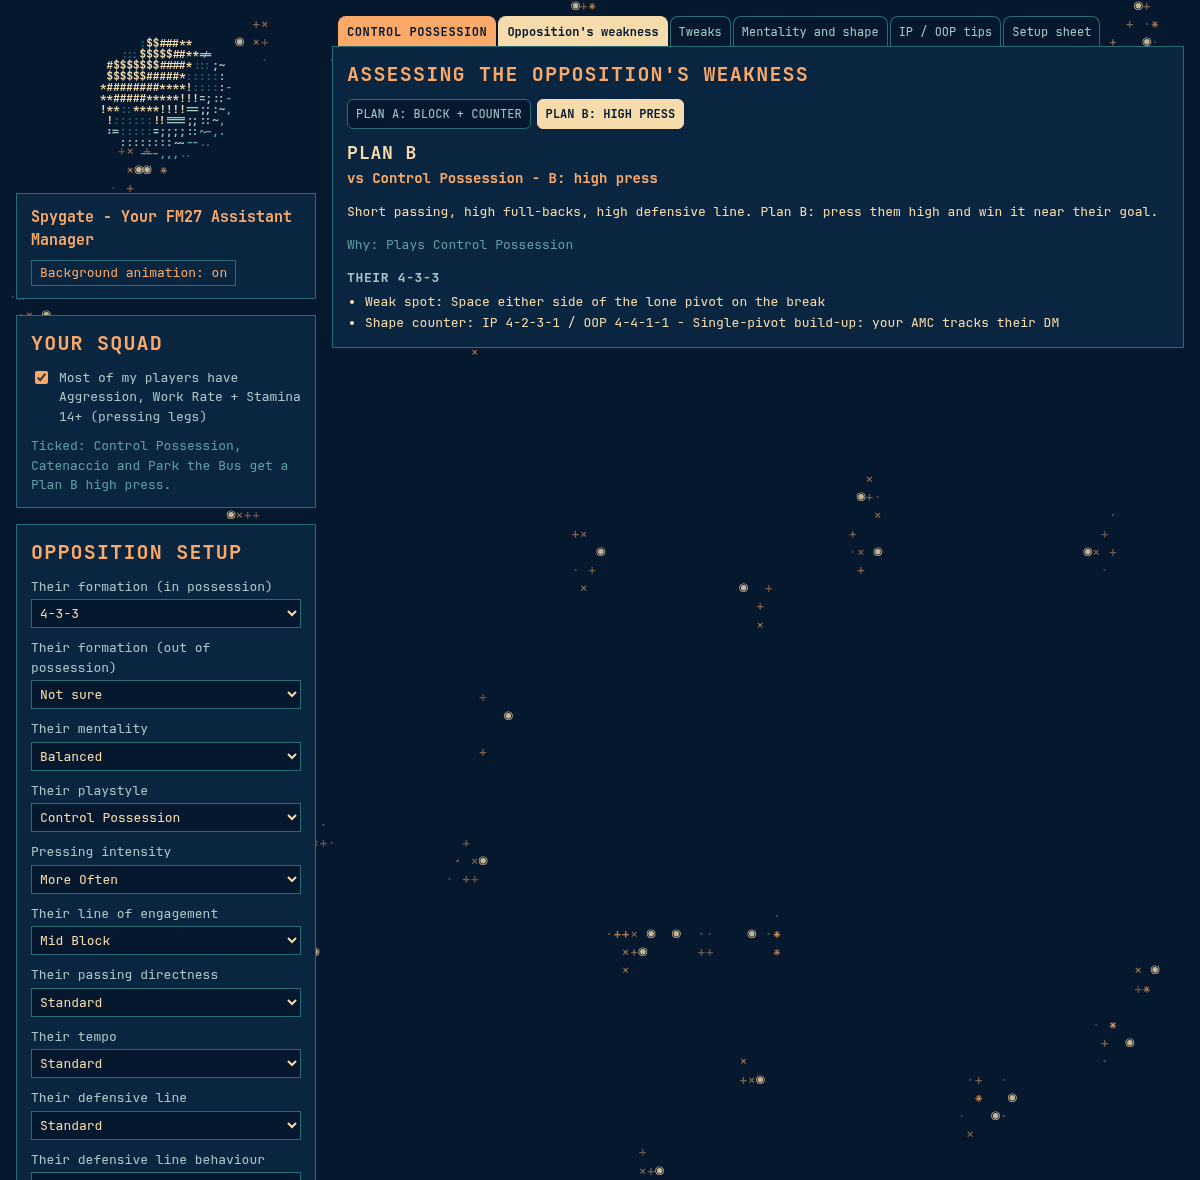
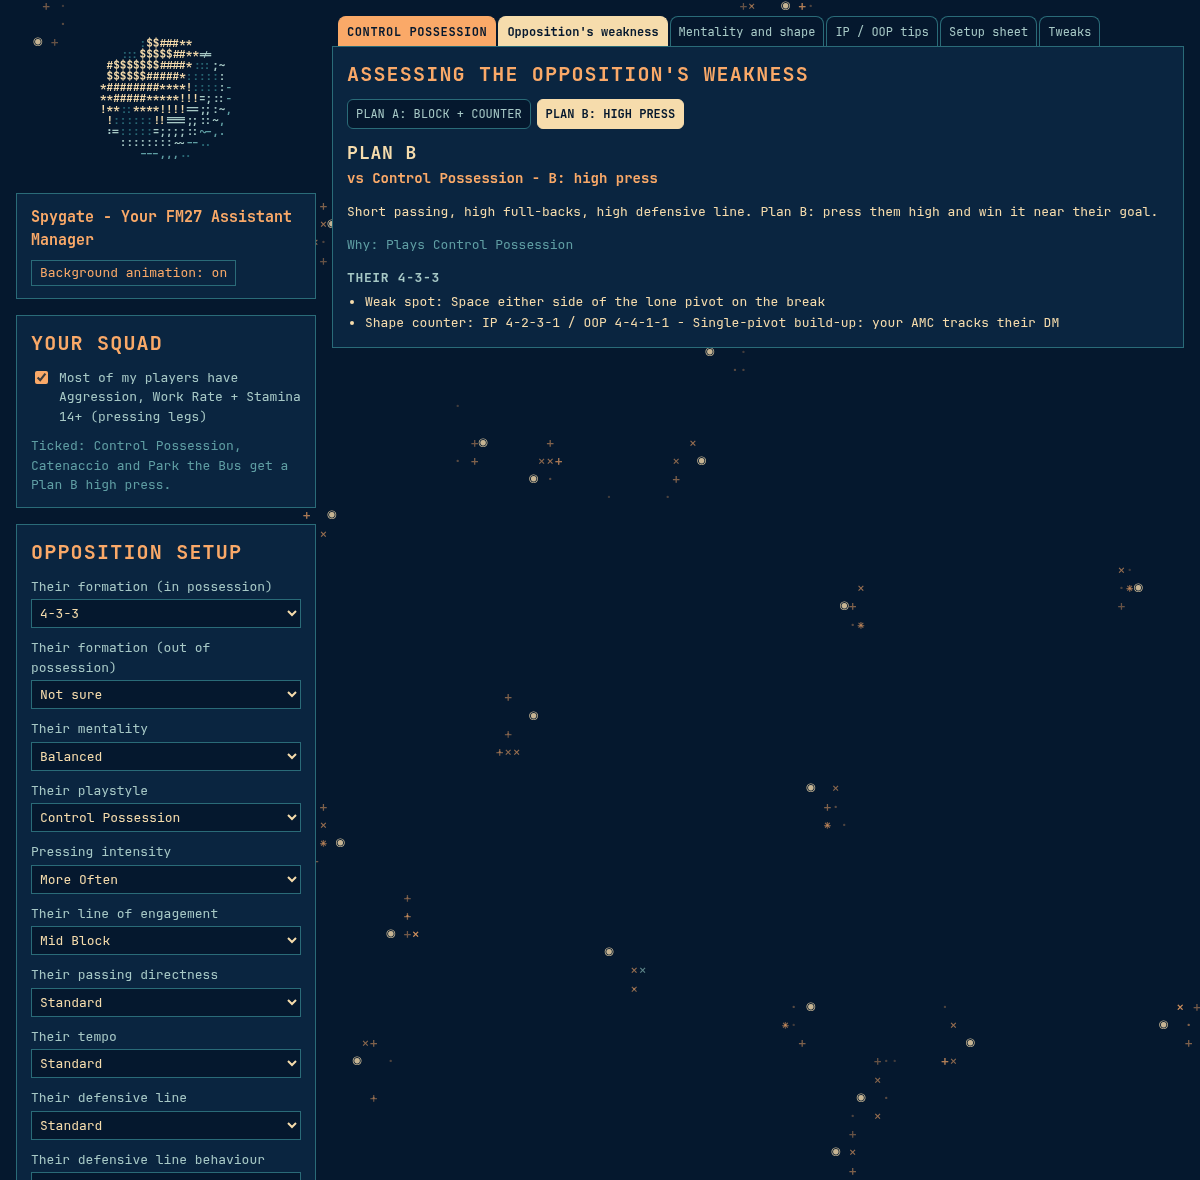
Tweaks tab last

diff --git a/index.html b/index.html
@@ -470,9 +470,6 @@ function render(){
     ${r.oopC?`<h3>Their ${esc(o.oopShape)} out of possession</h3>
     <ul>${li('Weak spot: '+r.oopC.weak)}${li('Attack it with: '+r.oopC.ip)}${r.oopC.tips.map(t=>li(t)).join('')}
       ${li('Settings added to the setup sheet: '+Object.entries(r.oopC.set).map(([k,v])=>k+' '+v).join(', '),'why')}</ul>`:''}`],
-    ['tweaks','Tweaks',`${big('TWEAKS FOR THIS OPPONENT')}
-    ${r.tweaks.length?`<ul>${r.tweaks.map(t=>`<li>${esc(t.text)} <span class="why">- ${esc(t.why)}</span></li>`).join('')}</ul>`:'<p class="why">No tweaks - the opposition setup and scout report don\'t call for any.</p>'}
-    ${r.clashes.length?`<h3>Overrides on the setup sheet</h3>${ul(r.clashes,'warn')}`:''}`],
     ['shape','Mentality and shape',`${big('YOUR MENTALITY AND SHAPE')}
     <div class="shape"><span>Team mentality</span><b>${esc(r.mine.mood)}</b><small>${ul(r.mine.moodWhy)}</small></div>
     <div class="shape"><span>In possession shape</span><b>${esc(r.mine.ip)}</b><small>${ul(r.mine.ipWhy)}</small></div>
@@ -490,6 +487,9 @@ function render(){
       ${TI.filter(t=>r.set[t.name]).map(t=>{const s=r.set[t.name];return `<tr><td>${t.phase}</td><td>${t.name}</td>
         <td>${t.opts.map(x=>x===s?`<span class="tag">${x}</span>`:x).join(' · ')}</td></tr>`;}).join('')}</table>
     <p class="why">Where a setting is a direction (higher, lower), pick the matching notch in game.</p>`],
+    ['tweaks','Tweaks',`${big('TWEAKS FOR THIS OPPONENT')}
+    ${r.tweaks.length?`<ul>${r.tweaks.map(t=>`<li>${esc(t.text)} <span class="why">- ${esc(t.why)}</span></li>`).join('')}</ul>`:'<p class="why">No tweaks - the opposition setup and scout report don\'t call for any.</p>'}
+    ${r.clashes.length?`<h3>Overrides on the setup sheet</h3>${ul(r.clashes,'warn')}`:''}`],
   ];
   const cur=tiles.find(t=>t[0]===tile)||tiles[0];
   out.innerHTML=`<div><div class="tabs" role="tablist"><span class="tab label">${esc(STYLE_NAME[fam].toUpperCase())}</span>${tiles.map(([id,name])=>

diff --git a/README.md b/README.md
@@ -14,7 +14,7 @@ A counter-tactic helper for Football Manager 27. Describe the opponent (their in
 
 ## Screenshots
 
-Against a Control Possession side in a 4-3-3 that presses often: the opposition's weakness tile, with Plan A / Plan B. Tweaks, mentality and shape, tips and the setup sheet are the other tabs.
+Against a Control Possession side in a 4-3-3 that presses often: the opposition's weakness tile, with Plan A / Plan B. Mentality and shape, tips, the setup sheet and tweaks are the other tabs.
 
 ![Overview: opponent inputs, scout report and the recommended plan](screenshots/overview.png)
 
